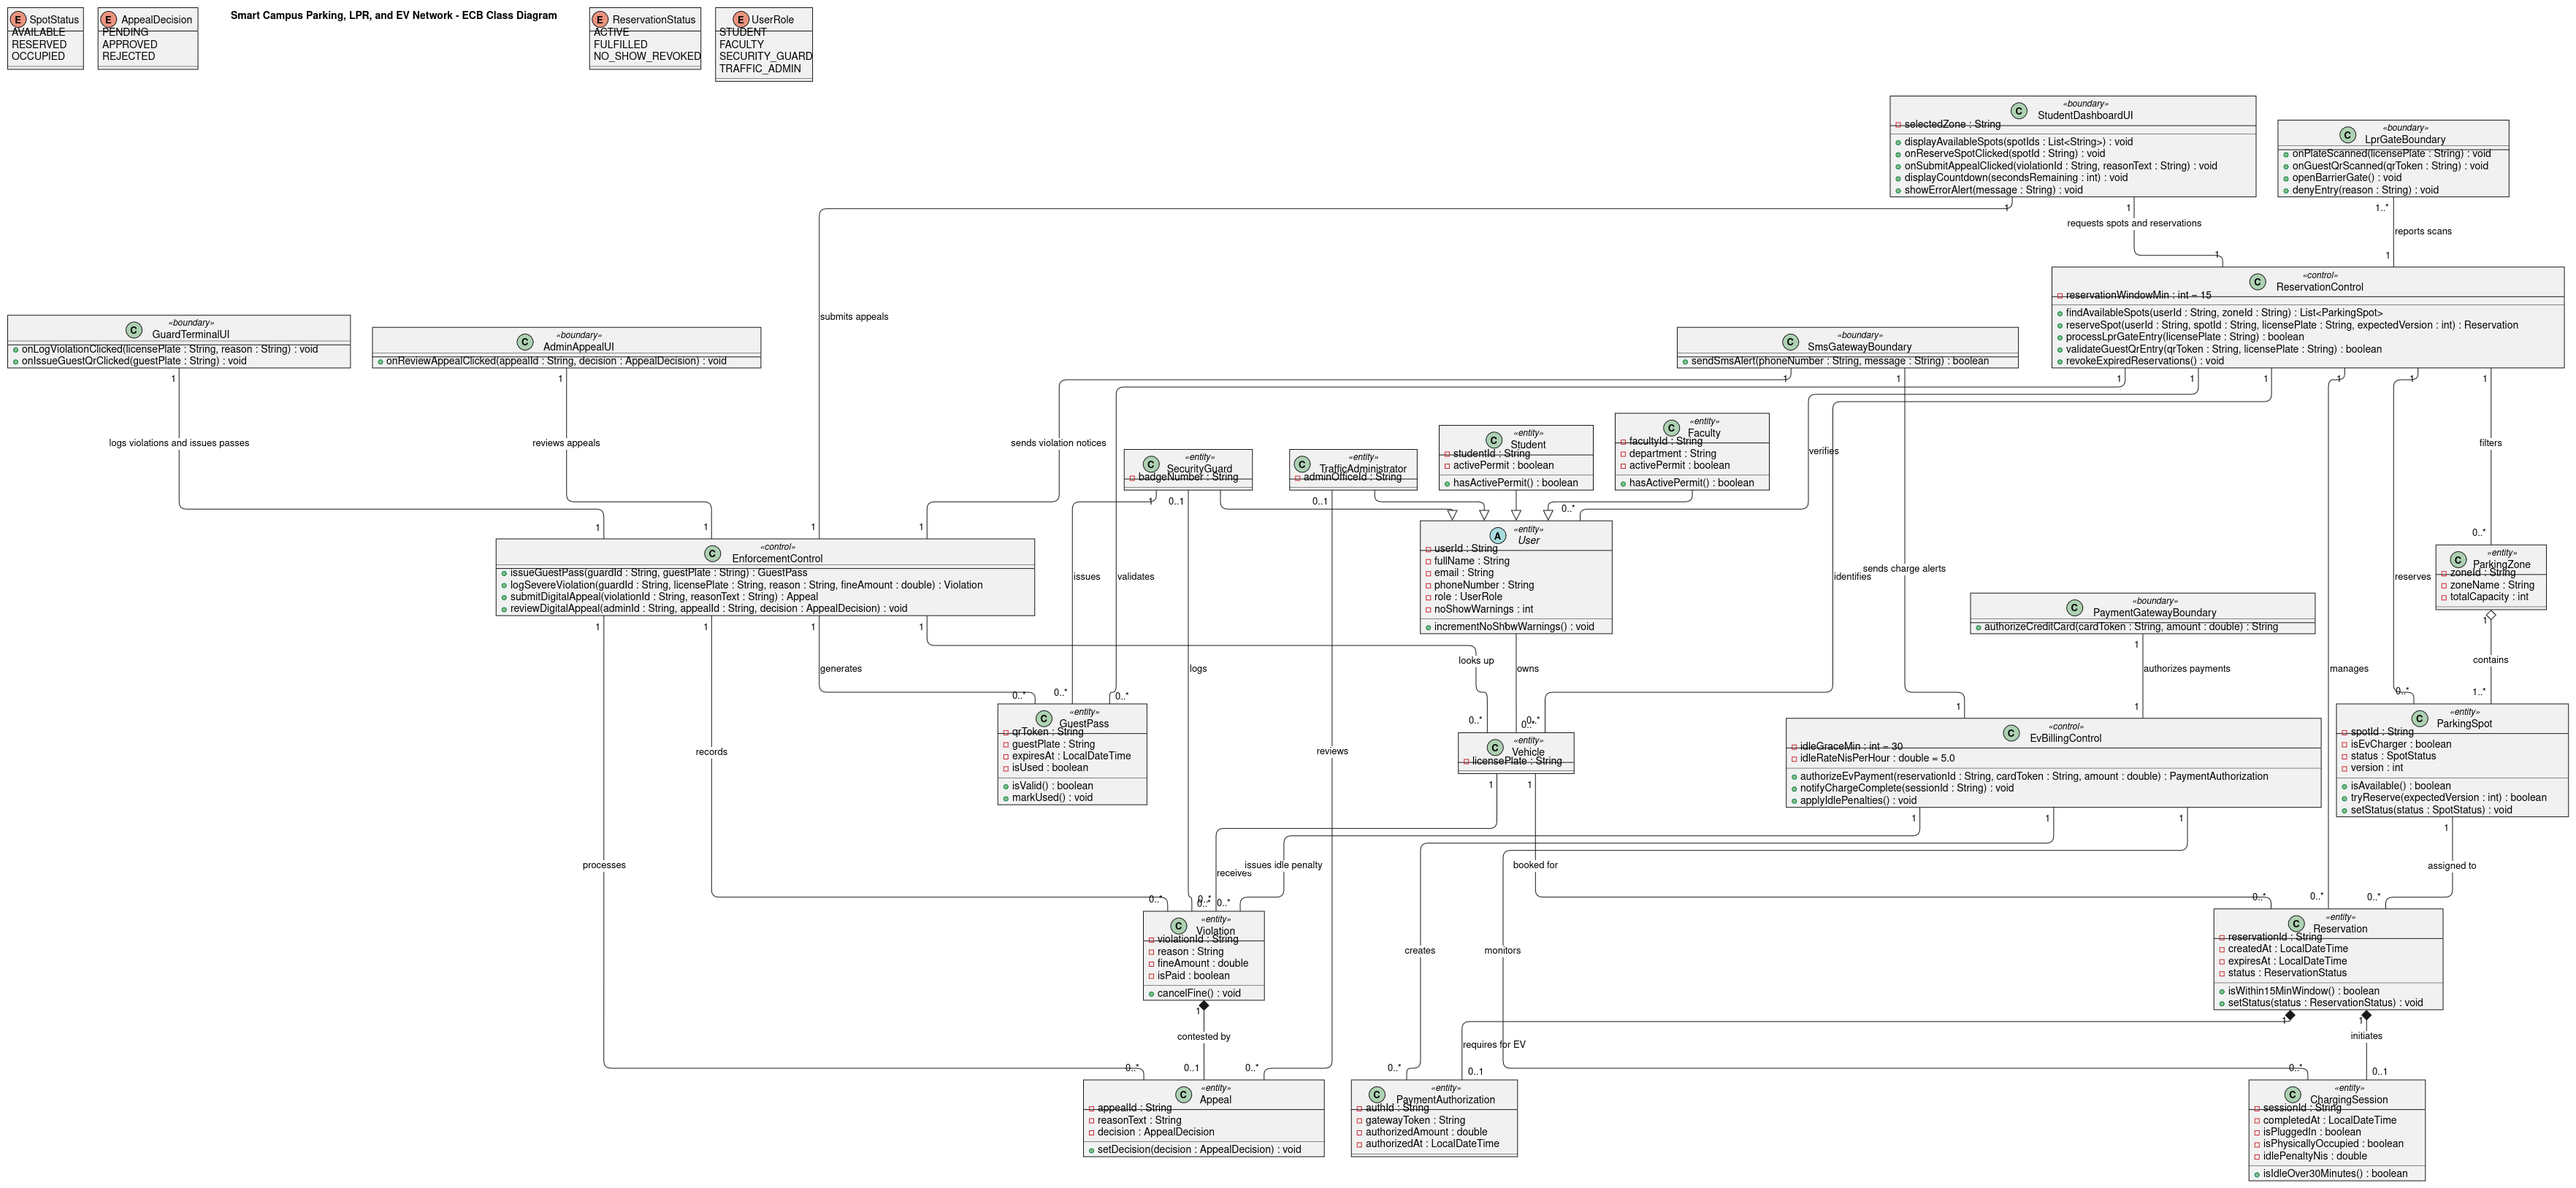
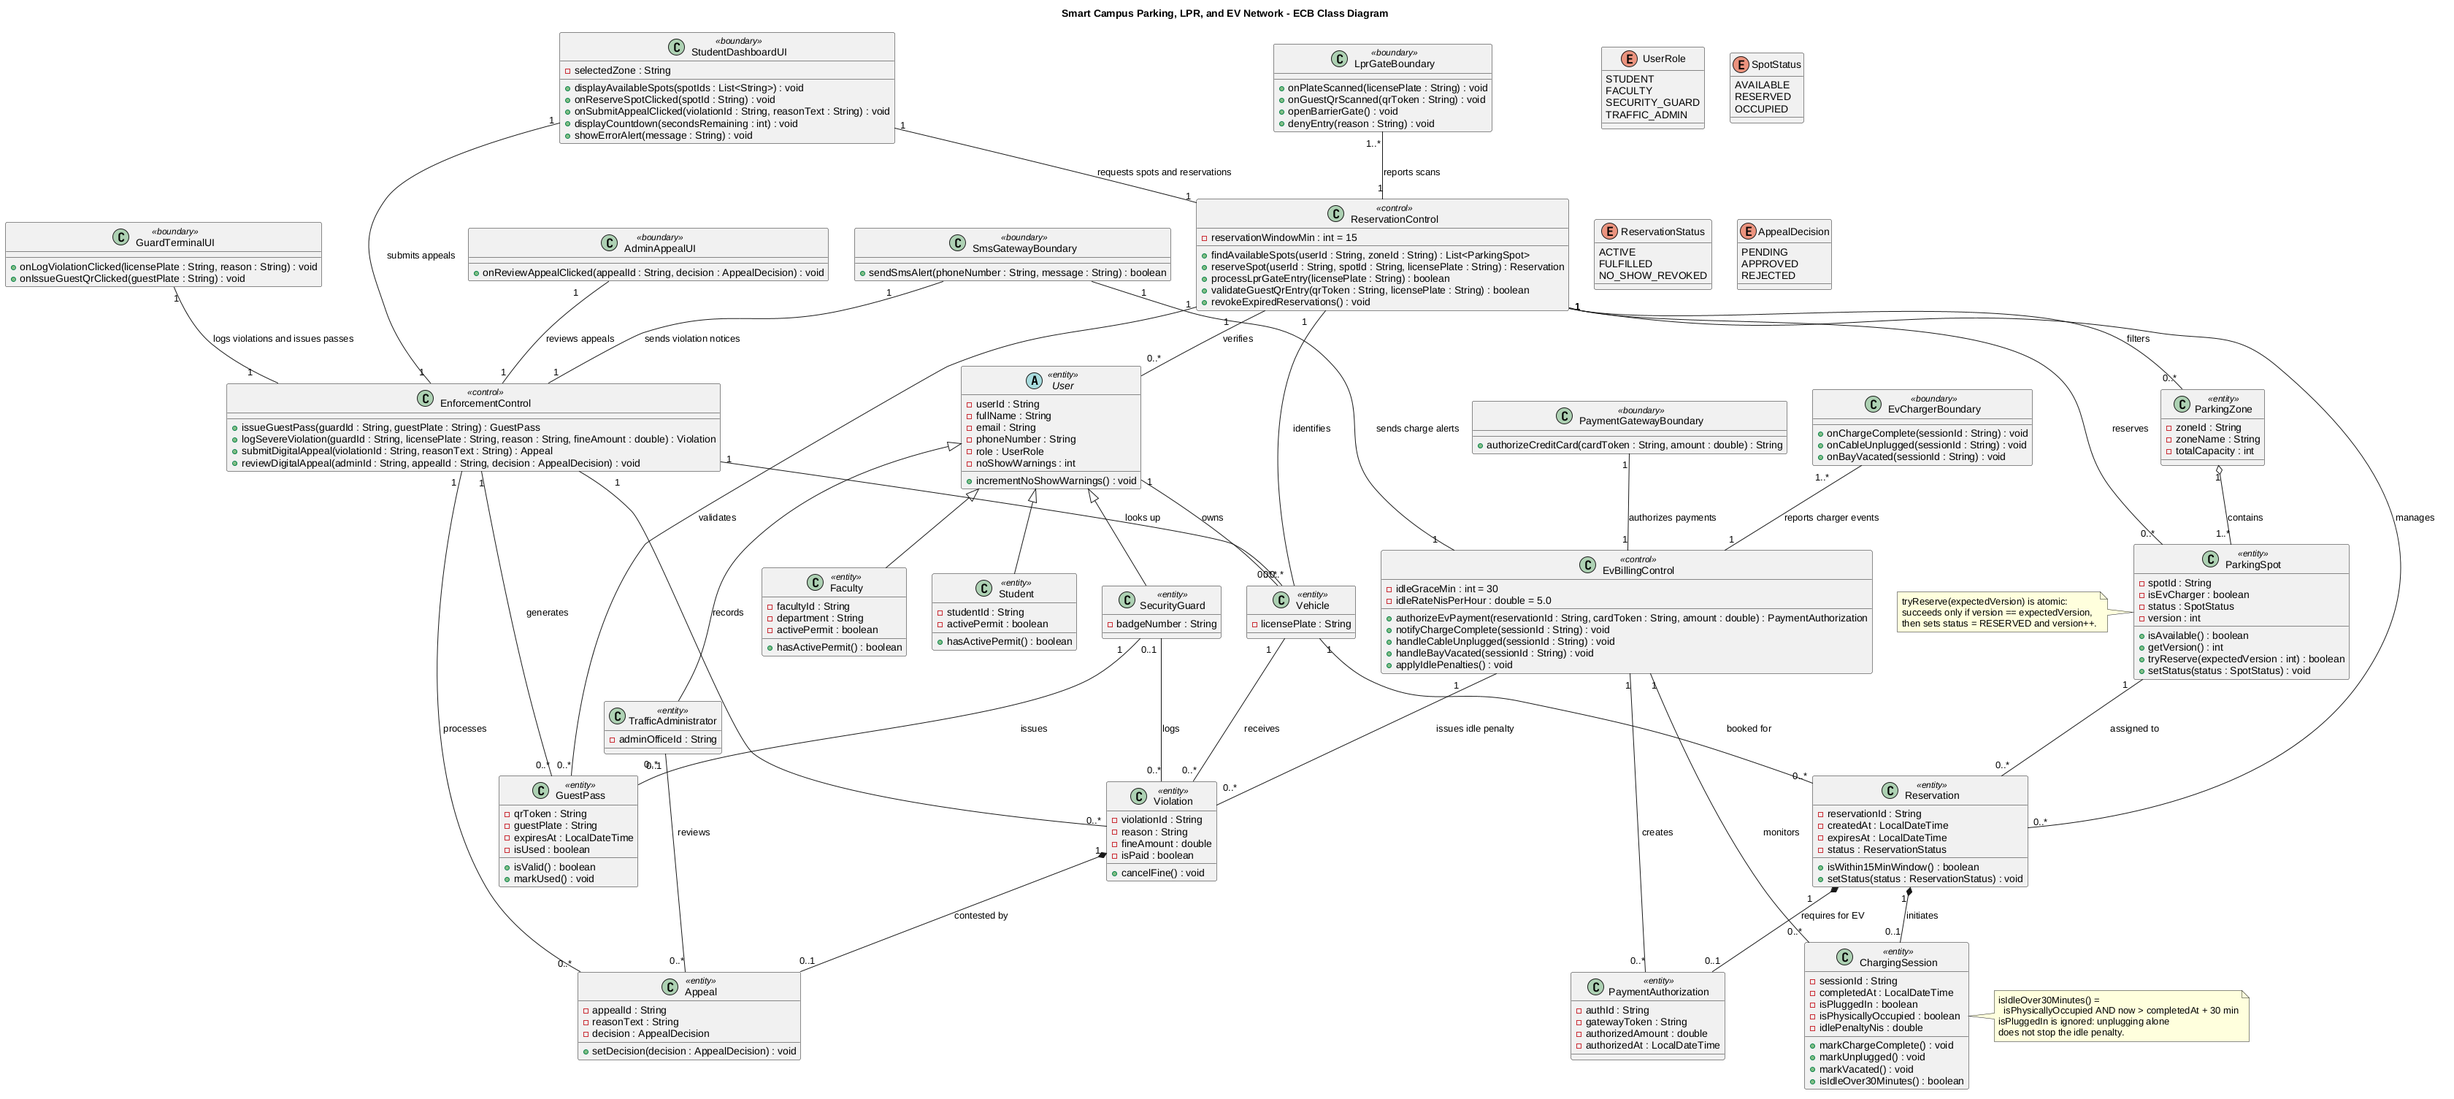
Added @ARCHITECTURE.md with additional puml changes

diff --git a/ARCHITECTURE.md b/ARCHITECTURE.md
@@ -1,0 +1,126 @@
+
+---
+
+## 1. Team Members
+
+| Name | 
+|---|
+| Dmitry Chybisov|
+| Tomer Pine |
+
+**GitHub repository:** https://github.com/TomerPine/Ex4_SmartParking_Design
+
+---
+
+## 2. UML Diagrams
+
+The PlantUML sources are in [`diagrams/`](diagrams/). Each PNG below is rendered from the `.puml` file with the same name.
+
+### 2.1 Activity Diagram — Violation Logging and Digital Appeal
+
+![Activity diagram: violation logging and digital appeal](diagrams/activity_appeal.png)
+
+### 2.2 ECB Class Diagram
+
+![ECB class diagram](diagrams/class_diagram_ecb.png)
+
+### 2.3 ECB Sequence Diagram — Concurrent Spot Reservation, LPR Gate Entry, and No-Show
+
+![Sequence diagram: concurrent spot reservation](diagrams/sequence_reservation_ecb.png)
+
+### 2.4 ECB Sequence Diagram — EV Charger Idle Penalty
+
+![Sequence diagram: EV charger idle penalty](diagrams/sequence_idle_penalty_ecb.png)
+
+---
+
+## 3. ECB Component Responsibility Table
+
+Boundary classes talk only to control classes. Control classes coordinate the use cases and are the only classes that read or change entities.
+
+### 3.1 Boundary Classes
+
+| Component | Connected to | Responsibility |
+|---|---|---|
+| `StudentDashboardUI` | `ReservationControl`, `EnforcementControl` | Lets Students and Faculty search for available spots in their allowed zones, reserve a spot, see the 15-minute countdown, see error alerts, and submit digital appeals. |
+| `GuardTerminalUI` | `EnforcementControl` | The Security Guard's mobile terminal for logging severe violations and issuing guest QR passes. |
+| `AdminAppealUI` | `EnforcementControl` | Lets the Traffic Administrator approve or reject digital appeals. |
+| `LprGateBoundary` | `ReservationControl` | Connects to the external LPR cameras. Reports scanned plates and guest QR codes, then opens the barrier or denies entry. |
+| `PaymentGatewayBoundary` | `EvBillingControl` | Connects to the external payment gateway to authorize the credit card before EV charging. |
+| `SmsGatewayBoundary` | `EvBillingControl`, `EnforcementControl` | Connects to the external SMS gateway for charge-complete alerts, idle-penalty alerts, and violation notices. |
+| `EvChargerBoundary` | `EvBillingControl` | Connects to the EV charger and bay sensor. Reports charge completion, cable unplugging, and the bay being vacated. *(Added by the team; the system story does not name this class.)* |
+
+### 3.2 Control Classes
+
+| Component | Entities managed | Responsibility |
+|---|---|---|
+| `ReservationControl` | `User`, `Vehicle`, `ParkingZone`, `ParkingSpot`, `Reservation`, `GuestPass` | Filters spots by role (Students see only the Student Zone; Faculty see all zones). Creates 15-minute reservations using the atomic `tryReserve(expectedVersion)` check. Handles LPR gate entry for permit holders and guest QR passes. Revokes no-show reservations and increments `noShowWarnings`. |
+| `EvBillingControl` | `PaymentAuthorization`, `ChargingSession`, `Violation` | Authorizes EV payment before charging. Records charge completion and sends the SMS alert. Tracks cable and bay state. Creates the 5 NIS/hour Charger Idle Penalty when the car is still in the bay 30 minutes after charging completes. |
+| `EnforcementControl` | `Vehicle`, `GuestPass`, `Violation`, `Appeal` | Issues guest passes. Logs severe violations, attaches the fine to the owner's account (blocking permit renewal), and sends the violation notice at the same time. Accepts digital appeals and applies the administrator's decision. |
+
+### 3.3 Entity Classes
+
+| Component | Responsibility |
+|---|---|
+| `User` (abstract) | Common user data, role, and the `noShowWarnings` counter. |
+| `Student`, `Faculty` | Registered drivers who can hold an active parking permit. |
+| `SecurityGuard` | Logs violations and issues guest passes. |
+| `TrafficAdministrator` | Reviews digital appeals. |
+| `Vehicle` | A license plate owned by a user. Links reservations and violations to their owner. |
+| `GuestPass` | A temporary single-use QR token for a guest vehicle. |
+| `ParkingZone` | A group of spots (for example, the Student Zone). Aggregates `ParkingSpot`. |
+| `ParkingSpot` | A standard or EV spot with a `status` and a `version` counter for safe concurrent reservation. |
+| `Reservation` | A 15-minute hold on a spot. Owns its `PaymentAuthorization` and `ChargingSession` (composition). |
+| `PaymentAuthorization` | The credit card authorization required before EV charging. |
+| `ChargingSession` | Tracks `completedAt`, `isPluggedIn`, and `isPhysicallyOccupied` separately, so idle time is measured by bay occupancy rather than cable state. |
+| `Violation` | A severe violation or an idle penalty, with its fine amount and payment status. Owns an optional `Appeal`. |
+| `Appeal` | A digital appeal with its reason and a `PENDING` / `APPROVED` / `REJECTED` decision. |
+
+---
+
+## 4. AI Critique Prompt and Applied Improvements
+
+### 4.1 Verbatim Prompt
+
+> @SYSTEM_STORY.md @diagrams/class_diagram_ecb.puml @diagrams/sequence_reservation_ecb.puml audit UML diagrams against two edge cases in Section 3 of System Story, like:
+> 1. Two students simultaneously click Reserve on the last available spot in Student Zone at the exact same millisecond.
+> 2. An EV driver unplugs the charging cable at minute 29 without physically moving the car out of the EV bay.
+
+### 4.2 Summary of the AI Critique
+
+The AI confirmed that the class diagram had the required elements: `version` and `tryReserve(expectedVersion)` on `ParkingSpot`, and separate `isPluggedIn` and `isPhysicallyOccupied` attributes on `ChargingSession`. It found that neither sequence diagram actually showed its edge case happening.
+
+**Edge case 1: simultaneous reservation**
+1. The race was not shown. There was only one student lifeline.
+2. The UI sent an `expectedVersion` that it never received; it was only given spot IDs.
+3. The `alt` guards used values with no return messages.
+4. No Student Zone check, and the example spot was an EV spot with no payment step.
+5. A no-show did not free the spot or increment `noShowWarnings`, and revocation happened only at the gate instead of on a timer.
+
+**Edge case 2: unplugged at minute 29, car still in the bay**
+1. The unplug event was not shown, and the class diagram had no operations or boundary to record it.
+2. `isIdleOver30Minutes()` did not say whether it checks the cable or the bay.
+3. A new fine would be created on every scheduler run instead of accruing 5 NIS per hour.
+4. The guard read `isPhysicallyOccupied` without a message to fetch it.
+5. The fine was not attached to a vehicle, and the SMS phone number had no source.
+6. The scheduler was not an ECB element.
+
+### 4.3 Applied Improvements
+
+| # | Improvement | Files changed |
+|---|---|---|
+| 1 | **The race is now shown.** Two students with separate dashboards both read version 5 inside a `par` block. A's `tryReserve(5)` succeeds and the version becomes 6. B's `tryReserve(5)` fails, no reservation is created for B, and B sees an error. A note states that `tryReserve` is an atomic compare-and-set. | `sequence_reservation_ecb.puml`, `class_diagram_ecb.puml` |
+| 2 | **The minute-29 unplug is now shown.** The sequence runs in three steps: charging completes at minute 0, the driver unplugs at minute 29 (`isPluggedIn = false`, `isPhysicallyOccupied = true`), and the idle check after minute 30 creates the penalty. Supporting additions: the new `EvChargerBoundary`; `handleCableUnplugged()` and `handleBayVacated()` on `EvBillingControl`; and `markChargeComplete()`, `markUnplugged()`, and `markVacated()` on `ChargingSession`. | `sequence_idle_penalty_ecb.puml`, `class_diagram_ecb.puml` |
+| 3 | **The idle rule is now defined.** A note on `ChargingSession` defines `isIdleOver30Minutes()` as `isPhysicallyOccupied AND now > completedAt + 30 min`, ignoring `isPluggedIn`. | `class_diagram_ecb.puml`, `sequence_idle_penalty_ecb.puml` |
+| 4 | **The UI no longer needs the version.** `reserveSpot()` no longer takes `expectedVersion`; `ReservationControl` reads it with the new `ParkingSpot.getVersion()`. | `class_diagram_ecb.puml`, `sequence_reservation_ecb.puml` |
+| 5 | **Guards now use returned values.** Return messages were added for `getVersion()`, `tryReserve()`, `isWithin15MinWindow()`, and `isIdleOver30Minutes()`. | both sequence diagrams |
+| 6 | **The scheduler is now a `Timer` actor**, replacing the non-ECB `<<system>>` participant. | `sequence_idle_penalty_ecb.puml` |
+
+### 4.4 Remaining Items
+
+These critique points were not applied:
+
+- The reservation flow does not check that a Student may reserve only in the Student Zone.
+- A no-show does not set the spot back to `AVAILABLE` or call `incrementNoShowWarnings()`, and revocation is still triggered at the gate rather than by `revokeExpiredReservations()` on a timer.
+- The idle check creates a new `Violation` on each run instead of accruing 5 NIS per hour on one fine.
+- The idle-penalty `Violation` is not attached to a `Vehicle`, and the SMS phone number's source (ChargingSession → Reservation → Vehicle → User) is not shown.
